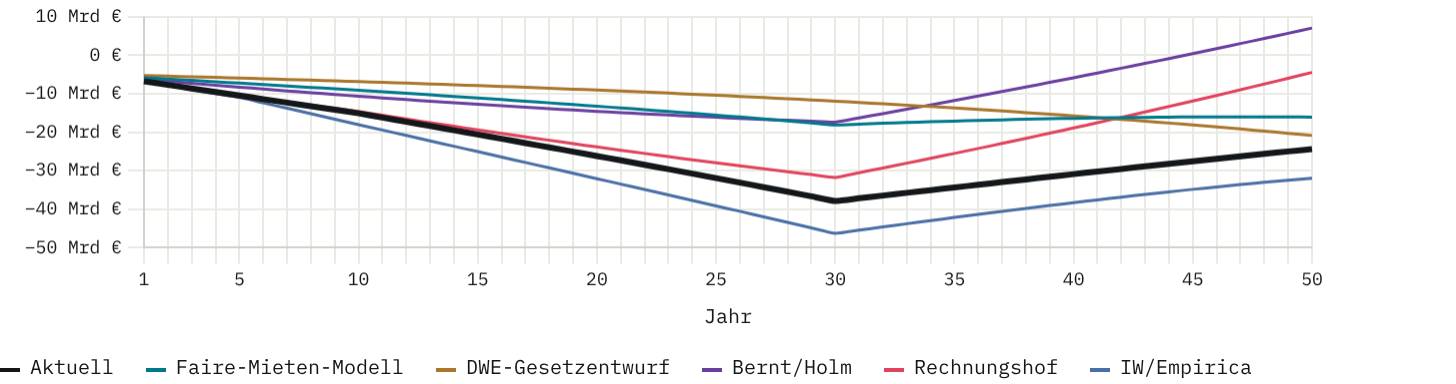
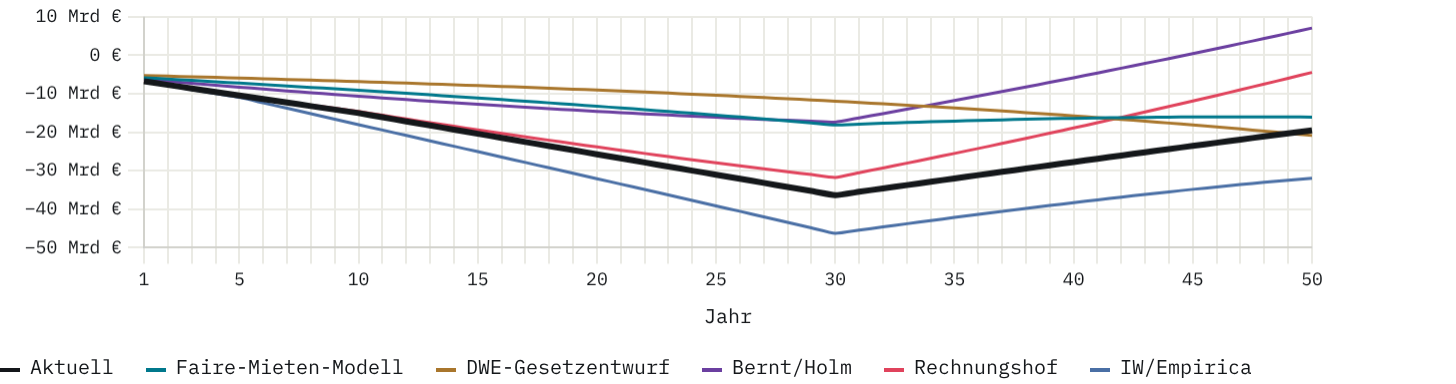
Sozialwohnungen: allocation at re-letting (Bernt/Holm) instead of fixed schedule
The fixed schedule converted 3.2 % of the whole stock each year and reached
100 % social housing in year 32. Bernt/Holm 2023 (pp. 13-14) give 5 %
turnover with 63 % of re-lettings to WBS holders. New sliders Fluktuation
and WBS-Quote; bound flats stay bound, so the share approaches 63 %
(year 1: 3.15 %, year 30: 50 %). Presets unchanged; old saved scenarios
and links migrated. Glossary, quellenbelege and log updated.

Claude-Session: https://claude.ai/code/session_01YGvqVAPjksn7Ku7daAPqoJ

Changed region(s): [[0.2782, 0.3125, 0.8963, 0.5312], [0.2473, 0.2812, 0.2782, 0.3125]]

diff --git a/02_Vergesellschaftung/model-calc.js b/02_Vergesellschaftung/model-calc.js
@@ -13,10 +13,11 @@
     baseRent:7.63, rentGrowth:1.5, costInflation:2.5, avgSize:65, opex:40, opexMode:'percent', opexAbsolute:2.2,
     freeMarketRent:15.8, munizRent:6.29, cpiGrowth:2.0, incomeGrowth:3.0,
     mode:'none', buildCost:3500, reinvestQuota1:100,
-    sozialRent:6.5, convCost:0, sozialImmediate:0, sozialPaceRate:3.2, reinvestQuota2:0,
-    // sozialPaceRate 3,2 %/Jahr: Bernt/Holm 2023, S. 13–14 — 63 % der Neuvermietungen an WBS-Inhaber*innen
-    // (Quote der Landeseigenen) bei 5 % Fluktuation = 6.999 von 222.183 Wohnungen/Jahr ≈ 3,15 %.
-    // Die Presets setzen 0, damit ihre Ergebnisse unverändert bleiben.
+    sozialRent:6.5, convCost:0, sozialImmediate:0, sozialTurnover:5, sozialQuota:63, reinvestQuota2:0,
+    // Vergabe bei Neuvermietung nach Bernt/Holm 2023, S. 13–14: Fluktuation 5 %/Jahr, davon 63 % an
+    // WBS-Inhaber*innen (Quote der Landeseigenen) = 6.999 von 222.183 Wohnungen im ersten Jahr (≈ 3,15 %).
+    // Einmal an WBS-Haushalte vergebene Wohnungen bleiben gebunden; der Anteil nähert sich daher 63 %
+    // des Bestands und erreicht nicht 100 %. Die Presets setzen sozialQuota 0, ihre Ergebnisse bleiben unverändert.
     horizon:50
   };
   let state = Object.assign({}, defaults);
@@ -25,10 +26,17 @@
   const STORE_KEY = 'vergesellschaftung-szenarien';
   const MAX_SAVED = 5;
   let savedScenarios = [];
+  // Ältere Speicherungen und Links mit dem Regler „Fester Zeitplan“ (sozialPaceRate):
+  // 0 bleibt ohne Vergabe bei Neuvermietung, jeder andere Wert übernimmt die Voreinstellung.
+  function migrateState(v){
+    if(v && v.sozialPaceRate!==undefined && v.sozialQuota===undefined) v.sozialQuota = v.sozialPaceRate>0 ? defaults.sozialQuota : 0;
+    if(v) delete v.sozialPaceRate;
+    return v;
+  }
   try{
     let stored = JSON.parse(localStorage.getItem(STORE_KEY) || '[]');
     if(stored && !Array.isArray(stored)) stored = [stored.A, stored.B]; // frühere Speicherung mit A/B
-    savedScenarios = (stored || []).filter(Boolean).slice(0, MAX_SAVED).map(v=>Object.assign({}, defaults, v));
+    savedScenarios = (stored || []).filter(Boolean).slice(0, MAX_SAVED).map(v=>Object.assign({}, defaults, migrateState(v)));
   }catch(e){}
   function storeScenarios(){
     try{ localStorage.setItem(STORE_KEY, JSON.stringify(savedScenarios)); }catch(e){}
@@ -36,7 +44,7 @@
 
   const sliderIds = ['units','price','purchaseFactor','rate','riskPremium','term','rateResetYears','rateIncrement','onceCosts','maintBacklog','integrationCosts',
     'baseRent','rentGrowth','costInflation','avgSize','opex','opexAbsolute','freeMarketRent','munizRent','cpiGrowth','incomeGrowth','buildCost','reinvestQuota1',
-    'sozialRent','convCost','sozialImmediate','sozialPaceRate','reinvestQuota2','horizon'];
+    'sozialRent','convCost','sozialImmediate','sozialTurnover','sozialQuota','reinvestQuota2','horizon'];
 
   // Parameter, die im Kern €/m² sind, aber wahlweise auch als €-Betrag pro Wohnung
   // bedient werden koennen (verlinkte Zweitfelder, zwei Wege dieselbe Groesse einzugeben).
@@ -86,7 +94,7 @@
 
     let units = p.units;
     let sozialUnits = 0;
-    // Herkunft der Sozialwohnungen: sofort (Jahr 1), fester Zeitplan, aus Überschuss
+    // Herkunft der Sozialwohnungen: sofort (Jahr 1), bei Neuvermietung, aus Überschuss
     let sozImm = 0, sozFix = 0, sozSur = 0;
     // Einmalkosten bei Übernahme (Jahr 0): Transaktionskosten, Sanierungsstau, Integrationskosten.
     // Werden hier als Startsaldo verbucht, damit sie im Jahr-für-Jahr-Verlauf, im Cashflow-Chart
@@ -106,7 +114,9 @@
       const sozialRent = Math.min(p.sozialRent, p.baseRent)*Math.pow(1+p.rentGrowth/100, t-1);
 
       // Umwandlung zu Jahresbeginn, unabhängig vom Cashflow des Jahres (die Kosten mindern ihn unten):
-      // in Jahr 1 der sofort umgewandelte Anteil, danach jedes Jahr der feste Zeitplan auf den Rest.
+      // in Jahr 1 der sofort umgewandelte Anteil, danach jedes Jahr die Vergabe bei Neuvermietung:
+      // von f × Bestand frei werdenden Wohnungen gehen q an WBS-Haushalte; gebundene Wohnungen bleiben gebunden,
+      // neu gebunden werden also f × (q × Bestand − bereits gebundene), bis der Anteil q erreicht ist.
       // Die Umwandlung ist unabhängig vom Reinvestitionsmodus (Neubau/keine) immer aktiv.
       let fixedConversionCost = 0;
       {
@@ -115,7 +125,7 @@
           sozImm += newImm; sozialUnits += newImm;
           fixedConversionCost += newImm*p.convCost*p.avgSize;
         }
-        const newFix = Math.min(p.units*((p.sozialPaceRate||0)/100), Math.max(p.units - sozialUnits,0));
+        const newFix = Math.min(Math.max((p.sozialTurnover||0)/100*((p.sozialQuota||0)/100*p.units - sozialUnits), 0), Math.max(p.units - sozialUnits,0));
         sozFix += newFix; sozialUnits += newFix;
         fixedConversionCost += newFix*p.convCost*p.avgSize;
       }
@@ -225,7 +235,8 @@
     state.convCost = +$('convCost').value;
     state.sozialImmediate = +$('sozialImmediate').value;
     state.reinvestQuota2 = +$('reinvestQuota2').value;
-    state.sozialPaceRate = +$('sozialPaceRate').value;
+    state.sozialTurnover = +$('sozialTurnover').value;
+    state.sozialQuota = +$('sozialQuota').value;
     state.horizon = +$('horizon').value;
   }
 
@@ -264,7 +275,8 @@
     $('hint-sozialRentCap').style.display = state.sozialRent > state.baseRent ? 'block' : 'none';
     $('v-convCost').textContent = fmtInt(state.convCost)+' €/m²';
     $('v-sozialImmediate').textContent = state.sozialImmediate+' %';
-    $('v-sozialPaceRate').textContent = state.sozialPaceRate.toLocaleString('de-DE',{minimumFractionDigits:1})+' %/Jahr';
+    $('v-sozialTurnover').textContent = state.sozialTurnover.toLocaleString('de-DE',{maximumFractionDigits:1})+' %/Jahr';
+    $('v-sozialQuota').textContent = state.sozialQuota+' %';
     $('v-reinvestQuota2').textContent = state.reinvestQuota2+' %';
     $('v-horizon').textContent = state.horizon+' Jahre';
 
@@ -457,13 +469,13 @@
       }
     });
 
-    // Sozialanteil nach Herkunft (sofort / fester Zeitplan / aus Überschuss), gestapelt
+    // Sozialanteil nach Herkunft (sofort / bei Neuvermietung / aus Überschuss), gestapelt
     const fmtPct = v => v.toLocaleString('de-DE',{maximumFractionDigits:0})+' %';
     chartSozial = new Chart($('chartSozial').getContext('2d'), {
       type:'line',
       data:{ labels:[], datasets:[
         {label:'Sofort', data:[], borderColor:'#00788C', backgroundColor:'rgba(0,120,140,0.35)', borderWidth:1.5, pointRadius:0, fill:'origin', tension:0.15},
-        {label:'Fester Zeitplan', data:[], borderColor:'#A9762C', backgroundColor:'rgba(169,118,44,0.35)', borderWidth:1.5, pointRadius:0, fill:'-1', tension:0.15},
+        {label:'Bei Neuvermietung', data:[], borderColor:'#A9762C', backgroundColor:'rgba(169,118,44,0.35)', borderWidth:1.5, pointRadius:0, fill:'-1', tension:0.15},
         {label:'Aus Überschuss', data:[], borderColor:'#109A82', backgroundColor:'rgba(16,154,130,0.35)', borderWidth:1.5, pointRadius:0, fill:'-1', tension:0.15}
       ]},
       options:{
@@ -727,7 +739,7 @@
   function describeSnapshot(s){
     const finParts = [s.financing==='kredit' ? ('Kredit '+s.rate+'%') : 'Eigenmittel'];
     const modeLabel = s.mode==='neubau' ? 'Neubau' : 'keine Reinvest.';
-    const sozialLabel = 'Sozial: sofort '+s.sozialImmediate+' %, '+s.sozialPaceRate+' %/J., Überschuss '+s.reinvestQuota2+' %';
+    const sozialLabel = 'Sozial: sofort '+s.sozialImmediate+' %, '+'WBS-Quote '+s.sozialQuota+' % bei '+s.sozialTurnover+' % Fluktuation, Überschuss '+s.reinvestQuota2+' %';
     return finParts[0]+' · '+modeLabel+' · '+sozialLabel+' · '+s.purchaseFactor+'% Kaufpreis';
   }
 
@@ -857,7 +869,7 @@
       price: 2085, purchaseFactor: 43.0,
       financing: 'kredit', rate: 3.5, riskPremium: 0, term: 30, rateResetYears: 30, rateIncrement: 0,
       baseRent: 3.70, rentGrowth: 0.5, costInflation: 2.5,
-      opexMode: 'percent', opex: 40, mode: 'none', sozialPaceRate: 0
+      opexMode: 'percent', opex: 40, mode: 'none', sozialQuota: 0
     },
     holm: {
       // Bernt & Holm 2023: Ist-Miete-Modell, Mietsenkung auf Landeseigenen-Niveau 6,29 €/m².
@@ -866,21 +878,21 @@
       price: 2085, purchaseFactor: 73.8,
       financing: 'kredit', rate: 3.5, riskPremium: 0, term: 30, rateResetYears: 30, rateIncrement: 0,
       baseRent: 6.29, rentGrowth: 1.5, costInflation: 2.0,
-      opexMode: 'percent', opex: 35, mode: 'none', sozialPaceRate: 0
+      opexMode: 'percent', opex: 35, mode: 'none', sozialQuota: 0
     },
     rechnungshof: {
       // Rechnungshof Berlin 2024: verkehrswertorientiert (~32,5 Mrd € bei 100% Entschädigungsquote), Bewirtschaftungskosten absolut 2,20 €/m²
       price: 2085, purchaseFactor: 100,
       financing: 'kredit', rate: 3.5, riskPremium: 0, term: 30, rateResetYears: 10, rateIncrement: 1.0,
       baseRent: 6.71, rentGrowth: 1.5, costInflation: 2.0,
-      opexMode: 'absolute', opexAbsolute: 2.20, mode: 'none', sozialPaceRate: 0
+      opexMode: 'absolute', opexAbsolute: 2.20, mode: 'none', sozialQuota: 0
     },
     gegenmodell: {
       // IW Köln/Empirica 2026 (Bankengutachten): verkehrswertnah + Risikoprämie/Kapitalflucht-These
       price: 2085, purchaseFactor: 100,
       financing: 'kredit', rate: 3.5, riskPremium: 0.5, term: 30, rateResetYears: 5, rateIncrement: 2.0,
       baseRent: 7.63, rentGrowth: 1.5, costInflation: 3.0,
-      opexMode: 'percent', opex: 40, mode: 'none', sozialPaceRate: 0
+      opexMode: 'percent', opex: 40, mode: 'none', sozialQuota: 0
     },
     dwe2025: {
       // DWE-Gesetzentwurf, Stand 26.09.2025 (§§ 12-18 VergG-E): Entschädigung nach Sachwertverfahren
@@ -896,7 +908,7 @@
       units: 220000, price: 2085, purchaseFactor: 50,
       financing: 'kredit', rate: 3.5, riskPremium: 0, term: 100, rateResetYears: 100, rateIncrement: 0,
       baseRent: 3.70, rentGrowth: 0.5, costInflation: 2.5,
-      opexMode: 'percent', opex: 40, mode: 'none', sozialPaceRate: 0
+      opexMode: 'percent', opex: 40, mode: 'none', sozialQuota: 0
     }
   };
 
@@ -1046,11 +1058,12 @@
     const out = {};
     str.split(',').forEach(pair=>{
       const [k, v] = pair.split(':');
+      if(k==='sozialPaceRate' && isFinite(+v)){ out.sozialPaceRate = +v; return; }
       if(!(k in defaults) || v===undefined) return;
       if(textKeys[k]){ if(textKeys[k].includes(v)) out[k] = v; }
       else if(isFinite(+v)) out[k] = +v;
     });
-    return out;
+    return migrateState(out);
   }
   $('shareBtn').addEventListener('click', ()=>{
     readState();

diff --git a/02_Vergesellschaftung/content.js b/02_Vergesellschaftung/content.js
@@ -34,7 +34,7 @@ window.SITE_INCLUDES = {
       <section class="gl-group">
       <h3 class="gl-letter">C</h3>
       <dl>
-        <div><dt>Cashflow</dt> <dd>NOI abzüglich Schuldendienst (und abzüglich der Kosten einer Umwandlung nach festem Zeitplan) in einem Jahr. Der kumulierte Cashflow summiert die Jahreswerte seit Übernahme, beginnend mit den Einmalkosten in Jahr 0.</dd></div>
+        <div><dt>Cashflow</dt> <dd>NOI abzüglich Schuldendienst (und abzüglich der Kosten einer Umwandlung bei Neuvermietung) in einem Jahr. Der kumulierte Cashflow summiert die Jahreswerte seit Übernahme, beginnend mit den Einmalkosten in Jahr 0.</dd></div>
       </dl>
       </section>
       <section class="gl-group">
@@ -127,7 +127,7 @@ window.SITE_INCLUDES = {
       <h3 class="gl-letter">U</h3>
       <dl>
         <div><dt>Umwandlungskosten</dt> <dd>Einmalige Kosten je m² Wohnfläche, wenn eine Wohnung in eine Sozialwohnung umgewandelt wird; × Ø Wohnungsgröße ergibt die Kosten je Wohnung. Standardwert 0: Im öffentlichen Eigentum ist die Umwandlung eine Entscheidung über die Miete, ihre Kosten sind die entgangenen Mieteinnahmen, die das Modell über die Sozialmiete bereits erfasst. Ein Wert über 0 bildet zusätzliche Kosten ab, etwa für Verwaltung oder Modernisierung.</dd></div>
-        <div><dt>Umwandlungstempo</dt> <dd>Legt fest, wie schnell Wohnungen in Sozialwohnungen umgewandelt werden; die drei Regler wirken zusammen, bis der gesamte übernommene Bestand umgewandelt ist, und gelten unabhängig vom Reinvestitionsmodus; Neubauwohnungen bleiben bei der Modellmiete. „Sofort umgewandelt": Anteil des Bestands, der ab Jahr 1 die Sozialmiete trägt. „Fester Zeitplan": weiterer Anteil des Gesamtbestands pro Jahr, unabhängig vom Cashflow; die Kosten mindern den Cashflow des jeweiligen Jahres. Bei 3,3 %/Jahr ist der gesamte Bestand nach rund 30 Jahren umgewandelt. Voreinstellung 3,2 %/Jahr: Bernt/Holm (2023) rechnen damit, dass nach einer Vergesellschaftung 63 % der Neuvermietungen an WBS-Inhaber*innen gehen, wie bei den landeseigenen Unternehmen; bei 5 % Fluktuation sind das jährlich 6.999 von rund 222.000 Wohnungen. „Aus Überschuss": Anteil des jährlichen Überschusses, der weitere Umwandlungen trägt, gerechnet mit entgangener Miete und Umwandlungskosten je Wohnung; 0 % schaltet ihn ab.</dd></div>
+        <div><dt>Umwandlungstempo</dt> <dd>Legt fest, wie schnell Wohnungen in Sozialwohnungen umgewandelt werden; die Regler wirken zusammen und gelten unabhängig vom Reinvestitionsmodus; umgewandelt wird nur der übernommene Bestand, Neubauwohnungen bleiben bei der Modellmiete. „Sofort umgewandelt": Anteil des Bestands, der ab Jahr 1 die Sozialmiete trägt. „Fluktuation" und „WBS-Quote bei Neuvermietung": Jedes Jahr wird der Anteil „Fluktuation" aller Wohnungen neu vermietet; davon geht die WBS-Quote an WBS-Haushalte und trägt ab dann die Sozialmiete. Bereits vergebene Wohnungen bleiben gebunden, deshalb nähert sich der Anteil der WBS-Quote am Bestand und steigt nicht darüber. Voreinstellung nach Bernt/Holm (2023): 5 % Fluktuation, 63 % der Neuvermietungen an WBS-Inhaber*innen wie bei den landeseigenen Unternehmen; im ersten Jahr sind das 6.999 von 222.183 Wohnungen (3,15 %), nach 30 Jahren rund die Hälfte des Bestands. Die Kosten der Umwandlung mindern den Cashflow des jeweiligen Jahres. „Aus Überschuss": Anteil des jährlichen Überschusses, der weitere Umwandlungen trägt, gerechnet mit entgangener Miete und Umwandlungskosten je Wohnung; 0 % schaltet ihn ab.</dd></div>
       </dl>
       </section>
       <section class="gl-group">

diff --git a/02_Vergesellschaftung/vergesellschaftung-modell-v37.html b/02_Vergesellschaftung/vergesellschaftung-modell-v37.html
@@ -226,8 +226,12 @@
           <input type="range" id="sozialImmediate" min="0" max="100" step="5" value="0">
         </div>
         <div class="field">
-          <div class="field-row"><label data-term="Umwandlungstempo">Fester Zeitplan</label><span class="val" id="v-sozialPaceRate">3,2 %/Jahr</span></div>
-          <input type="range" id="sozialPaceRate" min="0" max="20" step="0.1" value="3.2">
+          <div class="field-row"><label data-term="Umwandlungstempo">Fluktuation</label><span class="val" id="v-sozialTurnover">5 %/Jahr</span></div>
+          <input type="range" id="sozialTurnover" min="0" max="15" step="0.5" value="5">
+        </div>
+        <div class="field">
+          <div class="field-row"><label data-term="Umwandlungstempo">WBS-Quote bei Neuvermietung</label><span class="val" id="v-sozialQuota">63 %</span></div>
+          <input type="range" id="sozialQuota" min="0" max="100" step="1" value="63">
         </div>
         <div class="field">
           <div class="field-row"><label data-term="Umwandlungstempo">Aus Überschuss</label><span class="val" id="v-reinvestQuota2">0 %</span></div>
@@ -320,11 +324,11 @@
         <div class="panel-head">
           <h2>Die <span data-term="Sozialbindung">Sozialwohnungen</span></h2>
         </div>
-        <p class="panel-sub">Anteil der Wohnungen mit Sozialmiete am Bestand, nach Herkunft: sofort umgewandelt, nach festem Zeitplan und aus dem Überschuss, eingestellt unter „Die Sozialwohnungen“.</p>
+        <p class="panel-sub">Anteil der Wohnungen mit Sozialmiete am Bestand, nach Herkunft: sofort umgewandelt, bei Neuvermietung an WBS-Haushalte und aus dem Überschuss, eingestellt unter „Die Sozialwohnungen“.</p>
         <canvas id="chartSozial" height="70"></canvas>
         <div class="legend">
           <span><i class="swatch" style="background:var(--blue)"></i>Sofort</span>
-          <span><i class="swatch" style="background:var(--amber)"></i>Fester Zeitplan</span>
+          <span><i class="swatch" style="background:var(--amber)"></i>Bei Neuvermietung</span>
           <span><i class="swatch" style="background:var(--green)"></i>Aus Überschuss</span>
         </div>
       </div>
@@ -520,8 +524,8 @@
 
 </div>
 
-<script src="model-calc.js?v=20261006e"></script>
-<script src="content.js?v=20261003d"></script>
+<script src="model-calc.js?v=20261006f"></script>
+<script src="content.js?v=20261006a"></script>
 <script src="include.js"></script>
 <script src="tooltips.js?v=20261003a"></script>
 <script src="nav.js?v=20261005a"></script>

diff --git a/02_Vergesellschaftung/modell-kompakt.html b/02_Vergesellschaftung/modell-kompakt.html
@@ -227,8 +227,12 @@
           <input type="range" id="sozialImmediate" min="0" max="100" step="5" value="0">
         </div>
         <div class="field">
-          <div class="field-row"><label data-term="Umwandlungstempo">Fester Zeitplan</label><span class="val" id="v-sozialPaceRate">3,2 %/Jahr</span></div>
-          <input type="range" id="sozialPaceRate" min="0" max="20" step="0.1" value="3.2">
+          <div class="field-row"><label data-term="Umwandlungstempo">Fluktuation</label><span class="val" id="v-sozialTurnover">5 %/Jahr</span></div>
+          <input type="range" id="sozialTurnover" min="0" max="15" step="0.5" value="5">
+        </div>
+        <div class="field">
+          <div class="field-row"><label data-term="Umwandlungstempo">WBS-Quote bei Neuvermietung</label><span class="val" id="v-sozialQuota">63 %</span></div>
+          <input type="range" id="sozialQuota" min="0" max="100" step="1" value="63">
         </div>
         <div class="field">
           <div class="field-row"><label data-term="Umwandlungstempo">Aus Überschuss</label><span class="val" id="v-reinvestQuota2">0 %</span></div>
@@ -321,11 +325,11 @@
         <div class="panel-head">
           <h2>Die <span data-term="Sozialbindung">Sozialwohnungen</span></h2>
         </div>
-        <p class="panel-sub">Anteil der Wohnungen mit Sozialmiete am Bestand, nach Herkunft: sofort umgewandelt, nach festem Zeitplan und aus dem Überschuss, eingestellt unter „Die Sozialwohnungen“.</p>
+        <p class="panel-sub">Anteil der Wohnungen mit Sozialmiete am Bestand, nach Herkunft: sofort umgewandelt, bei Neuvermietung an WBS-Haushalte und aus dem Überschuss, eingestellt unter „Die Sozialwohnungen“.</p>
         <canvas id="chartSozial" height="70"></canvas>
         <div class="legend">
           <span><i class="swatch" style="background:var(--blue)"></i>Sofort</span>
-          <span><i class="swatch" style="background:var(--amber)"></i>Fester Zeitplan</span>
+          <span><i class="swatch" style="background:var(--amber)"></i>Bei Neuvermietung</span>
           <span><i class="swatch" style="background:var(--green)"></i>Aus Überschuss</span>
         </div>
       </div>
@@ -440,8 +444,8 @@
 
 </div>
 
-<script src="model-calc.js?v=20261006e"></script>
-<script src="content.js?v=20261003d"></script>
+<script src="model-calc.js?v=20261006f"></script>
+<script src="content.js?v=20261006a"></script>
 <script src="tooltips.js?v=20261003a"></script>
 <script src="nav.js?v=20261005a"></script>
 </body>

diff --git a/02_Vergesellschaftung/quellenbelege.html b/02_Vergesellschaftung/quellenbelege.html
@@ -76,7 +76,7 @@
     <p><strong>Mieten landeseigener Unternehmen:</strong> Ø 6,29 €/m², Wachstum 1,6 % — S. 22 (Zeitreihentabelle), auch S. 10, 12.</p>
     <p><strong>Mieten großer privater Konzerne:</strong> Ø 7,63 €/m², Wachstum 3,9 % — S. 22, auch S. 10–12.</p>
     <p><strong>Bestand der sechs größten Konzerne:</strong> 222.183 Wohnungen — S. 12.</p>
-    <p><strong>Vergabe an WBS-Inhaber*innen:</strong> S. 14: nach einer Vergesellschaftung würden "63 Prozent aller Neuvermietungen an WBS-Inhaber*innen erfolgen. Bei einer unterstellten Fluktuation von 5 Prozent pro Jahr beträfe das jährlich 6.999 Wohnungen." Fluktuationsrate 5 % als Mittel der untersuchten Bestände seit 2016 — S. 13. Im Modell Voreinstellung „Fester Zeitplan" 3,2 %/Jahr (6.999 / 222.183 ≈ 3,15 %).</p>
+    <p><strong>Vergabe an WBS-Inhaber*innen:</strong> S. 14: nach einer Vergesellschaftung würden "63 Prozent aller Neuvermietungen an WBS-Inhaber*innen erfolgen. Bei einer unterstellten Fluktuation von 5 Prozent pro Jahr beträfe das jährlich 6.999 Wohnungen." Fluktuationsrate 5 % als Mittel der untersuchten Bestände seit 2016 — S. 13. Im Modell Voreinstellung „Fluktuation" 5 %/Jahr und „WBS-Quote bei Neuvermietung" 63 %; im ersten Jahr 6.999 / 222.183 ≈ 3,15 % des Bestands. Die Quelle nennt die jährliche Zahl der Vergaben; dass vergebene Wohnungen gebunden bleiben und der Anteil sich daher 63 % nähert, ist eine Annahme des Modells.</p>
     <p><strong>Nicht verwendet:</strong> Vergleich von Instandhaltung, Sozialwohnungsanteil und räumlicher Verteilung (S. 22–23).</p>
     <h2>2022</h2>
     <h3>Initiative „Deutsche Wohnen &amp; Co enteignen" (Hg.): Wie Vergesellschaftung gelingt</h3>

diff --git a/02_Vergesellschaftung/index.html b/02_Vergesellschaftung/index.html
@@ -69,7 +69,7 @@
   <div class="colophon">Berlin — Vergesellschaftung großer Wohnungsunternehmen — Modell, Zahlen, Quellen · Stand: Oktober 2026 · <a href="quellen.html">Quellen</a> · <a href="impressum.html">Impressum</a> · <a href="datenschutz.html">Datenschutz</a></div>
 
 </div>
-<script src="content.js?v=20261003d"></script>
+<script src="content.js?v=20261006a"></script>
 <script src="include.js"></script>
 <script src="nav.js?v=20261005a"></script>
 </body>

diff --git a/02_Vergesellschaftung/glossar.html b/02_Vergesellschaftung/glossar.html
@@ -35,7 +35,7 @@
   <div class="colophon">Glossar — Vergesellschaftung großer Wohnungsunternehmen · <a href="quellen.html">Quellen</a> · <a href="impressum.html">Impressum</a> · <a href="datenschutz.html">Datenschutz</a></div>
 
 </div>
-<script src="content.js?v=20261003d"></script>
+<script src="content.js?v=20261006a"></script>
 <script src="include.js"></script>
 <script src="nav.js?v=20261005a"></script>
 </body>

diff --git a/02_Vergesellschaftung/zahlen.html b/02_Vergesellschaftung/zahlen.html
@@ -169,7 +169,7 @@
   <div class="colophon">Die Zahlen — Vergesellschaftung großer Wohnungsunternehmen · <a href="quellen.html">Quellen</a> · <a href="impressum.html">Impressum</a> · <a href="datenschutz.html">Datenschutz</a></div>
 
 </div>
-<script src="model-calc.js?v=20261006e"></script>
+<script src="model-calc.js?v=20261006f"></script>
 <script src="nav.js?v=20261005a"></script>
 </body>
 </html>

diff --git a/02_Vergesellschaftung/entwicklungsprotokoll.md b/02_Vergesellschaftung/entwicklungsprotokoll.md
@@ -8,6 +8,12 @@ Läuft parallel zur Datei, damit Entscheidungen auch in einer neuen Konversation
 - **Archiv:** `archive/` — alle Vorversionen (v13–v36, plus die drei frühesten Entwürfe `vergesellschaftung-modell.html`, `_1`, `_3`), aufgehoben zum Diff, nicht mehr aktiv gepflegt
 - **Quellen:** `pdf/` — Primärquellen (Expertenkommission 2023, Rechnungshof/BBU-Gutachten, Bernt/Holm-Studie, DWE-Band, Becker 2024, OECD, Sodan-Rechtsgutachten)
 
+## 2026-10-06 — Sozialwohnungen: Vergabe bei Neuvermietung statt festem Zeitplan
+
+Fehler: Der Regler „Fester Zeitplan" (Voreinstellung 3,2 %/Jahr) wandelte jedes Jahr 3,2 % des Gesamtbestands um; nach 32 Jahren war der ganze Bestand Sozialwohnung, und „Die Ersparnis der Mieter" wuchs entsprechend weiter. Bernt/Holm 2023 (S. 13–14) beschreiben einen Fluss von Vergaben: 5 % Fluktuation, davon 63 % an WBS-Inhaber*innen, 6.999 Wohnungen im Jahr. Bei dieser Quote können höchstens 63 % des Bestands an WBS-Haushalte gehen.
+
+Neu: zwei Regler „Fluktuation" (5 %/Jahr) und „WBS-Quote bei Neuvermietung" (63 %). Neu gebunden werden je Jahr Fluktuation × (Quote × Bestand − bereits gebundene Wohnungen); gebundene Wohnungen bleiben gebunden. Jahr 1: 3,15 % (= 6.999 / 222.183), Jahr 10: 25 %, Jahr 30: 50 %, Jahr 50: 58 %. „Sofort umgewandelt" und „Aus Überschuss" zählen auf den gebundenen Bestand an. Presets setzen `sozialQuota: 0`, ihre Ergebnisse bleiben unverändert. Gespeicherte Szenarien und Links mit `sozialPaceRate` werden übernommen: 0 → Quote 0, sonst Voreinstellung. Glossar (Umwandlungstempo, Cashflow) und `quellenbelege.md` angepasst.
+
 ## 2026-10-06 — Kennzahlen ohne Rahmen, Stand in der Fußzeile
 
 Die Kopfzeile mit Titel, Kaufpreis und Nettoergebnis auf den Modellseiten steht ohne Rahmen und Hintergrund (`.summary` in `style.css`). Auf der Übersicht steht „Stand: Oktober 2026“ in der Fußzeile statt rechts neben dem Titel.

diff --git a/02_Vergesellschaftung/quellenbelege.md b/02_Vergesellschaftung/quellenbelege.md
@@ -76,7 +76,7 @@ Kurzstudie zu den sozialen Effekten einer möglichen Vergesellschaftung von Wohn
 - **Mieten landeseigener Unternehmen:** Ø 6,29 €/m², Wachstum 1,6 % — S. 22 (Zeitreihentabelle), auch S. 10, 12.
 - **Mieten großer privater Konzerne:** Ø 7,63 €/m², Wachstum 3,9 % — S. 22, auch S. 10–12.
 - **Bestand der sechs größten Konzerne:** 222.183 Wohnungen — S. 12.
-- **Vergabe an WBS-Inhaber*innen:** S. 14: nach einer Vergesellschaftung würden "63 Prozent aller Neuvermietungen an WBS-Inhaber*innen erfolgen. Bei einer unterstellten Fluktuation von 5 Prozent pro Jahr beträfe das jährlich 6.999 Wohnungen." Fluktuationsrate 5 % als Mittel der untersuchten Bestände seit 2016 — S. 13. Im Modell Voreinstellung „Fester Zeitplan" 3,2 %/Jahr (6.999 / 222.183 ≈ 3,15 %).
+- **Vergabe an WBS-Inhaber*innen:** S. 14: nach einer Vergesellschaftung würden "63 Prozent aller Neuvermietungen an WBS-Inhaber*innen erfolgen. Bei einer unterstellten Fluktuation von 5 Prozent pro Jahr beträfe das jährlich 6.999 Wohnungen." Fluktuationsrate 5 % als Mittel der untersuchten Bestände seit 2016 — S. 13. Im Modell Voreinstellung „Fluktuation" 5 %/Jahr und „WBS-Quote bei Neuvermietung" 63 %; im ersten Jahr 6.999 / 222.183 ≈ 3,15 % des Bestands. Die Quelle nennt die jährliche Zahl der Vergaben; dass vergebene Wohnungen gebunden bleiben und der Anteil sich daher 63 % nähert, ist eine Annahme des Modells.
 - **Nicht verwendet:** Vergleich von Instandhaltung, Sozialwohnungsanteil und räumlicher Verteilung (S. 22–23).
 
 ## 2022
